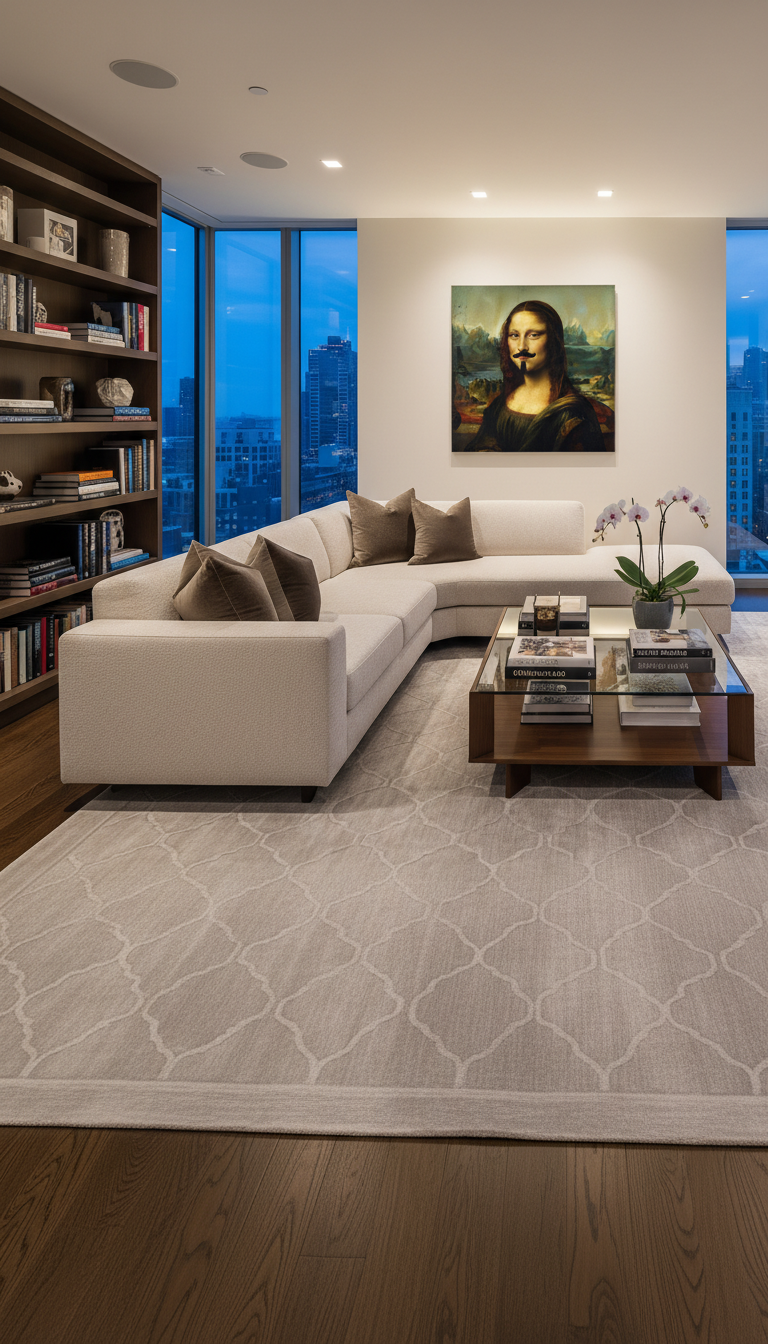
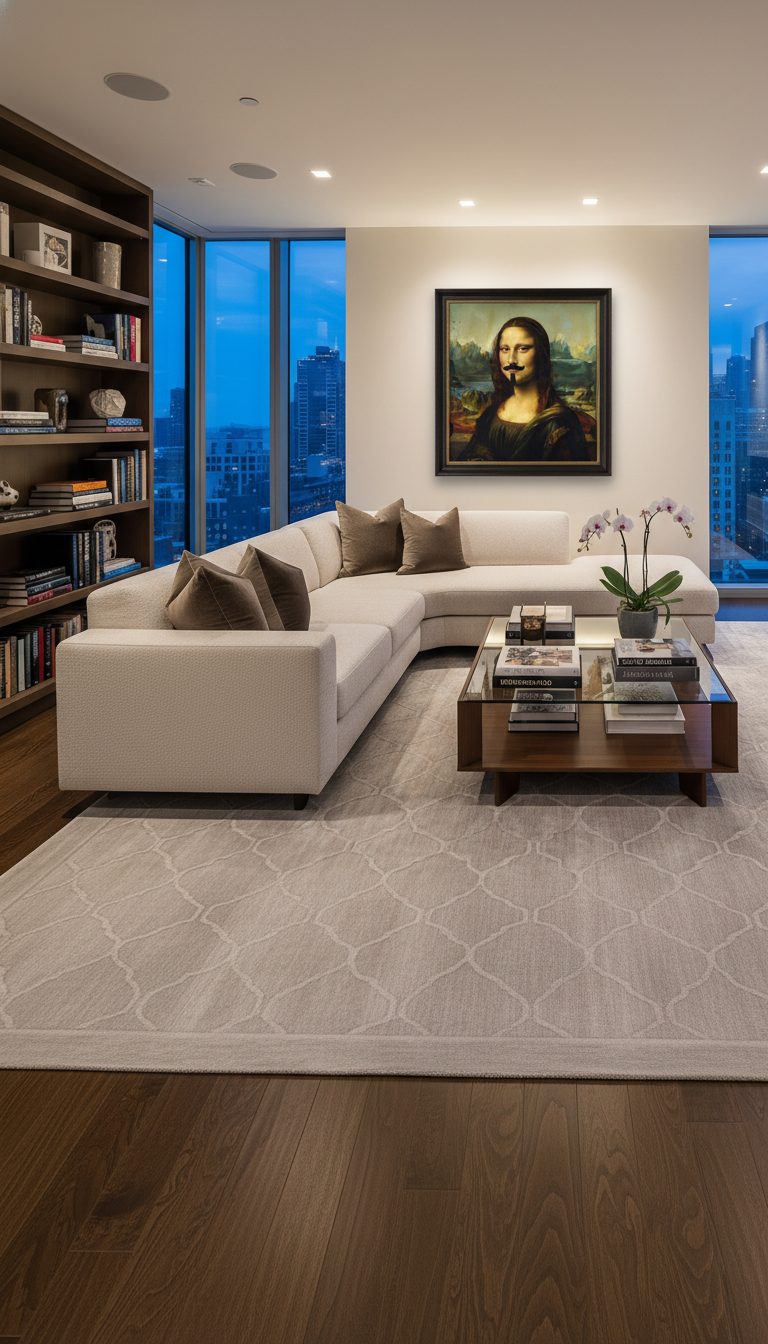
base

diff --git a/src/image_generation/bozza.py b/src/image_generation/bozza.py
@@ -426,3 +426,127 @@ edit_GAIS3_multi([
     "src/image_generation/imgs/base/gen2.png"
 ])
 #"""
+
+
+
+
+
+
+
+# ----------------------------------------------------------
+# RAGGRUPPAMENTO DELLE IMMAGINI (BASE E RIFERIMENTI):
+# ----------------------------------------------------------
+
+def edit_GAIS4_multi(base_image_path, reference_image_paths):
+    client = genai.Client(api_key=os.environ.get("GEMINI_API_KEY"))
+
+    # --------------------
+    # PROMPT SEMÂNTICO CLARO
+    # --------------------
+    parts = [
+        types.Part.from_text(
+            text="""
+            A PRIMEIRA imagem é a IMAGEM BASE.
+            As imagens seguintes são apenas REFERÊNCIAS.
+
+            Modifique a imagem base adicionado o estilo das imagens de referencia
+            """
+        )
+    ]
+
+    # --------------------
+    # IMAGEM BASE
+    # --------------------
+    with open(base_image_path, "rb") as f:
+        base_bytes = f.read()
+
+    base_mime, _ = mimetypes.guess_type(base_image_path)
+
+    parts.append(
+        types.Part.from_bytes(
+            data=base_bytes,
+            mime_type=base_mime
+        )
+    )
+
+    # --------------------
+    # IMAGENS DE REFERÊNCIA
+    # --------------------
+    for path in reference_image_paths:
+        with open(path, "rb") as f:
+            ref_bytes = f.read()
+
+        ref_mime, _ = mimetypes.guess_type(path)
+
+        parts.append(
+            types.Part.from_bytes(
+                data=ref_bytes,
+                mime_type=ref_mime
+            )
+        )
+
+    contents = [
+        types.Content(
+            role="user",
+            parts=parts
+        )
+    ]
+
+    config = types.GenerateContentConfig(
+        temperature=0.75,
+        response_modalities=["IMAGE", "TEXT"],
+        image_config=types.ImageConfig(aspect_ratio="9:16"),
+    )
+
+    # --------------------
+    # CHAMADA SEM STREAM
+    # --------------------
+    response = client.models.generate_content(
+        model="gemini-2.5-flash-image",
+        contents=contents,
+        config=config,
+    )
+
+    # --------------------
+    # TEXTO + IMAGEM
+    # --------------------
+    image_index = 0
+
+    if response.candidates:
+        for part in response.candidates[0].content.parts:
+
+            # TEXTO
+            if part.text:
+                print("TEXTO:", part.text)
+
+            # IMAGEM
+            if part.inline_data:
+                ext = mimetypes.guess_extension(part.inline_data.mime_type)
+                file_name = f"output_{image_index}{ext}"
+                image_index += 1
+
+                with open(file_name, "wb") as f:
+                    f.write(part.inline_data.data)
+
+                print(f"🖼 Imagem salva: {file_name}")
+
+    # --------------------
+    # METADATA DE CONSUMO
+    # --------------------
+    if response.usage_metadata:
+        print("\n📊 USO DE TOKENS:")
+        print("Prompt tokens:", response.usage_metadata.prompt_token_count)
+        print("Resposta tokens:", response.usage_metadata.candidates_token_count)
+        print("Total tokens:", response.usage_metadata.total_token_count)
+
+    return response
+
+#"""
+edit_GAIS4_multi(
+    base_image_path="src/image_generation/imgs/base/gen1.png",
+    reference_image_paths=[
+        "src/image_generation/imgs/base/gen3.png"
+        "src/image_generation/imgs/base/gen4.png"
+    ]
+)
+#"""
